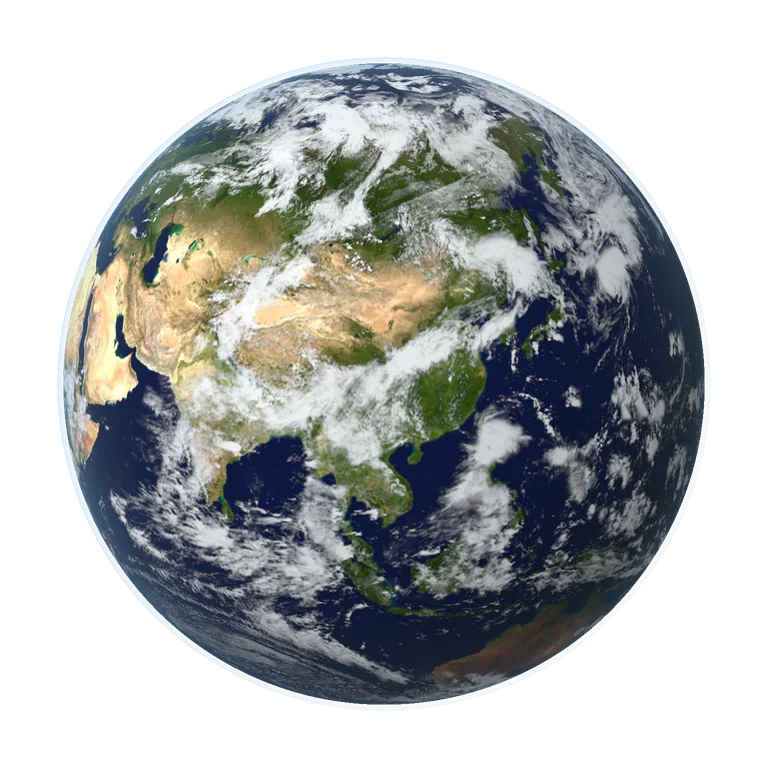
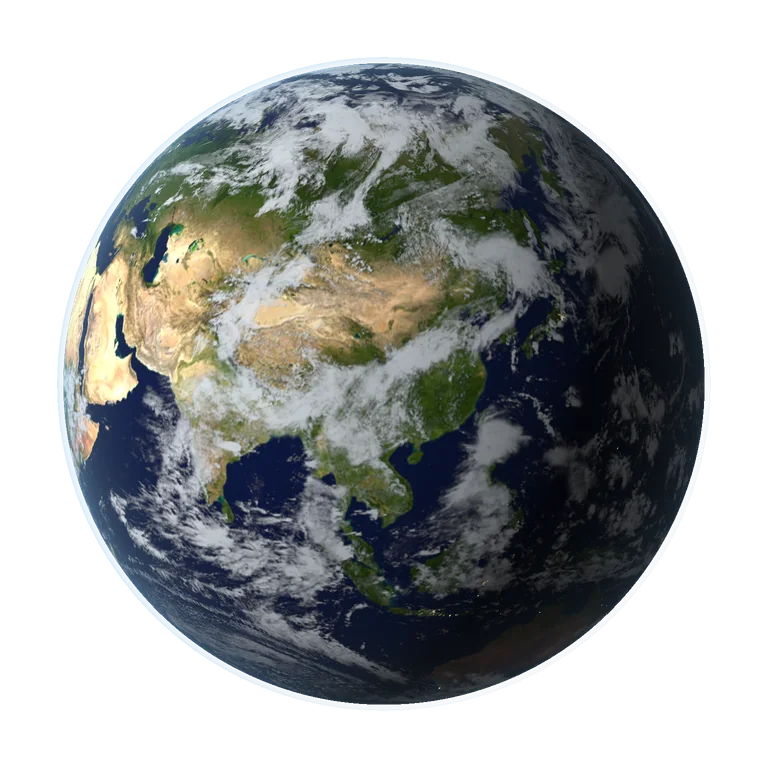
Add cinematic day-night Earth and interactive research-network view

Changed region(s): [[0.25, 0.0625, 0.9375, 0.9375], [0.0938, 0.375, 0.125, 0.4375], [0.0625, 0.4375, 0.0938, 0.4688]]

diff --git a/app/InteractiveGlobe.tsx b/app/InteractiveGlobe.tsx
@@ -5,17 +5,19 @@ import Image from "next/image";
 import { cases, type Language } from "../content/resume";
 import { globeMesh, networkMesh, projectPoint, researchMarkets } from "./globe-geometry";
 import { earthFragment, earthMaterial, earthPosterRevision, earthVertex } from "./earth-material";
+import "./earth-controls.css";
 
 const base = process.env.NEXT_PUBLIC_BASE_PATH ?? "";
 
 export default function InteractiveGlobe({ language, paused, onExplore }: { language: Language; paused: boolean; onExplore: (index: number) => void }) {
   const canvas = useRef<HTMLCanvasElement>(null), labels = useRef<HTMLDivElement>(null), motion = useRef(paused);
   const focus = useRef<((lon: number, lat: number) => void) | null>(null), active = useRef(8);
-  const [renderer, setRenderer] = useState("loading"), [selected, setSelected] = useState("CN");
+  const changeStyle = useRef<((network: boolean) => void) | null>(null), redraw = useRef<(() => void) | null>(null);
+  const [renderer, setRenderer] = useState("loading"), [selected, setSelected] = useState("CN"), [style, setStyle] = useState("earth");
   const loc = (zh: string, en: string) => language === "zh" ? zh : en;
   const selectedPlace = researchMarkets.find(p => p.code === selected);
   const related = cases.slice(0, 2).map((item, index) => ({ item, index: index === 0 ? 0 : 3 })).filter(({ item }) => !selectedPlace || item.markets.includes(selected));
-  useEffect(() => { motion.current = paused; }, [paused]);
+  useEffect(() => { motion.current = paused; redraw.current?.(); }, [paused]);
   useEffect(() => {
     const el = canvas.current;
     if (!el) return;
@@ -38,19 +40,26 @@ export default function InteractiveGlobe({ language, paused, onExplore }: { lang
       const a = gl.getAttribLocation(program, name); gl.enableVertexAttribArray(a); gl.vertexAttribPointer(a, size, gl.FLOAT, false, 32, offset);
     }
     gl.enable(gl.DEPTH_TEST); gl.depthFunc(gl.LEQUAL); gl.enable(gl.CULL_FACE); gl.cullFace(gl.BACK); gl.enable(gl.BLEND); gl.blendFunc(gl.SRC_ALPHA, gl.ONE_MINUS_SRC_ALPHA); gl.clearColor(0, 0, 0, 0);
-    const uo = gl.getUniformLocation(program, "orientation"), ur = gl.getUniformLocation(program, "resolution"), ua = gl.getUniformLocation(program, "activeMarket");
+    const uo = gl.getUniformLocation(program, "orientation"), ur = gl.getUniformLocation(program, "resolution"), ua = gl.getUniformLocation(program, "activeMarket"), un = gl.getUniformLocation(program, "networkView"), uReveal = gl.getUniformLocation(program, "routeReveal");
     const texture = gl.createTexture(); gl.activeTexture(gl.TEXTURE0); gl.bindTexture(gl.TEXTURE_2D, texture); gl.texImage2D(gl.TEXTURE_2D, 0, gl.RGB, 1, 1, 0, gl.RGB, gl.UNSIGNED_BYTE, new Uint8Array([8, 30, 45]));
     gl.texParameteri(gl.TEXTURE_2D, gl.TEXTURE_MIN_FILTER, gl.LINEAR); gl.texParameteri(gl.TEXTURE_2D, gl.TEXTURE_MAG_FILTER, gl.LINEAR); gl.texParameteri(gl.TEXTURE_2D, gl.TEXTURE_WRAP_S, gl.REPEAT); gl.texParameteri(gl.TEXTURE_2D, gl.TEXTURE_WRAP_T, gl.CLAMP_TO_EDGE);
     gl.uniform1i(gl.getUniformLocation(program, "earth"), 0);
     const cloudTexture = gl.createTexture(); gl.activeTexture(gl.TEXTURE1); gl.bindTexture(gl.TEXTURE_2D, cloudTexture); gl.texImage2D(gl.TEXTURE_2D, 0, gl.RGB, 1, 1, 0, gl.RGB, gl.UNSIGNED_BYTE, new Uint8Array([0, 0, 0]));
     gl.texParameteri(gl.TEXTURE_2D, gl.TEXTURE_MIN_FILTER, gl.LINEAR); gl.texParameteri(gl.TEXTURE_2D, gl.TEXTURE_MAG_FILTER, gl.LINEAR); gl.texParameteri(gl.TEXTURE_2D, gl.TEXTURE_WRAP_S, gl.REPEAT); gl.texParameteri(gl.TEXTURE_2D, gl.TEXTURE_WRAP_T, gl.CLAMP_TO_EDGE); gl.uniform1i(gl.getUniformLocation(program, "clouds"), 1);
+    const nightTexture = gl.createTexture(); gl.activeTexture(gl.TEXTURE2); gl.bindTexture(gl.TEXTURE_2D, nightTexture); gl.texImage2D(gl.TEXTURE_2D, 0, gl.RGB, 1, 1, 0, gl.RGB, gl.UNSIGNED_BYTE, new Uint8Array([0, 0, 0]));
+    gl.texParameteri(gl.TEXTURE_2D, gl.TEXTURE_MIN_FILTER, gl.LINEAR); gl.texParameteri(gl.TEXTURE_2D, gl.TEXTURE_MAG_FILTER, gl.LINEAR); gl.texParameteri(gl.TEXTURE_2D, gl.TEXTURE_WRAP_S, gl.REPEAT); gl.texParameteri(gl.TEXTURE_2D, gl.TEXTURE_WRAP_T, gl.CLAMP_TO_EDGE); gl.uniform1i(gl.getUniformLocation(program, "night"), 2);
     let frame = 0, alive = true, visible = true, loaded = false, surfaceReady = false, cloudsReady = false, painted = false, failed = false, pointer = -1, lastX = 0, lastY = 0;
+    let networkBlend = 0, networkTarget = 0, routeReveal = 1, lastFrame = 0;
     const current=[105,30], target=[105,30];
     const nodeLabels = labels.current?.querySelectorAll<HTMLElement>("[data-market]");
-    function draw() {
+    function draw(now: number) {
       frame = 0; if (!alive || !visible || document.hidden || !loaded) return;
+      const delta = Math.min(.06, lastFrame ? Math.max(0, (now - lastFrame) / 1000) : .016); lastFrame = now;
       const speed = motion.current ? 1 : .13; current[0] += (target[0] - current[0]) * speed; current[1] += (target[1] - current[1]) * speed;
+      networkBlend += (networkTarget - networkBlend) * (motion.current ? 1 : 1 - Math.exp(-delta * 8));
+      routeReveal = motion.current ? 1 : Math.min(1, routeReveal + delta * 1.3);
       gl!.viewport(0, 0, el!.width, el!.height); gl!.uniform2f(ur, el!.width, el!.height); gl!.uniform2f(uo, current[0] * Math.PI / 180, current[1] * Math.PI / 180); gl!.uniform1f(ua, active.current); gl!.clear(gl!.COLOR_BUFFER_BIT | gl!.DEPTH_BUFFER_BIT);
+      gl!.uniform1f(un, networkBlend); gl!.uniform1f(uReveal, routeReveal);
       gl!.drawArrays(gl!.TRIANGLES, 0, globe.length / 8);
       gl!.depthMask(false); gl!.drawArrays(gl!.TRIANGLES, globe.length / 8, atmosphere.length / 8); gl!.drawArrays(gl!.LINES, (globe.length + atmosphere.length) / 8, network.lines); gl!.drawArrays(gl!.POINTS, (globe.length + atmosphere.length) / 8 + network.lines, network.points); gl!.depthMask(true);
       if (!painted) { if (gl!.getError() !== gl!.NO_ERROR) { fail(); return; } painted = true; setRenderer("webgl"); }
@@ -59,17 +68,23 @@ export default function InteractiveGlobe({ language, paused, onExplore }: { lang
         label.hidden = !p.visible; label.style.left = `${p.x * 100}%`; label.style.top = `${p.y * 100}%`;
       });
       el!.dataset.longitude = current[0].toFixed(2); el!.dataset.latitude = current[1].toFixed(2);
-      if (Math.abs(current[0] - target[0]) + Math.abs(current[1] - target[1]) > .04) frame = requestAnimationFrame(draw);
+      el!.dataset.networkBlend = networkBlend.toFixed(3); el!.dataset.routeReveal = routeReveal.toFixed(3);
+      if (Math.abs(current[0] - target[0]) + Math.abs(current[1] - target[1]) > .04 || Math.abs(networkBlend - networkTarget) > .001 || routeReveal < 1) frame = requestAnimationFrame(draw);
     }
-    function wake() { if (!frame && alive) frame = requestAnimationFrame(draw); }
-    focus.current = (lon, lat) => { target[0] = current[0] + (((lon - current[0]) % 360 + 540) % 360) - 180; target[1] = lat; wake(); };
+    function wake() { if (!frame && alive) { lastFrame = 0; frame = requestAnimationFrame(draw); } }
+    redraw.current = wake;
+    focus.current = (lon, lat) => { target[0] = current[0] + (((lon - current[0]) % 360 + 540) % 360) - 180; target[1] = lat; routeReveal = 0; wake(); };
+    changeStyle.current = network => { networkTarget = network ? 1 : 0; routeReveal = 0; wake(); };
     function resize() { const r = el!.getBoundingClientRect(), dpr = Math.min(devicePixelRatio, 2, 1200 / Math.max(1, r.width, r.height)); el!.width = Math.round(r.width * dpr); el!.height = Math.round(r.height * dpr); wake(); }
-    function fail() { if (!alive) return; failed = true; loaded = false; cancelAnimationFrame(frame); frame = 0; focus.current = null; active.current = 8; setSelected("CN"); setRenderer("fallback"); }
+    function fail() { if (!alive) return; failed = true; loaded = false; cancelAnimationFrame(frame); frame = 0; focus.current = null; changeStyle.current = null; active.current = 8; setSelected("CN"); setStyle("earth"); setRenderer("fallback"); }
     function prepared() { if (!alive || failed || !surfaceReady || !cloudsReady) return; loaded = true; resize(); }
     const image = new window.Image();
     image.onload = () => { if (!alive || failed) return; gl!.activeTexture(gl!.TEXTURE0); gl!.bindTexture(gl!.TEXTURE_2D, texture); gl!.texImage2D(gl!.TEXTURE_2D, 0, gl!.RGB, gl!.RGB, gl!.UNSIGNED_BYTE, image); gl!.generateMipmap(gl!.TEXTURE_2D); gl!.texParameteri(gl!.TEXTURE_2D, gl!.TEXTURE_MIN_FILTER, gl!.LINEAR_MIPMAP_LINEAR); surfaceReady = true; prepared(); };
     image.onerror = fail; image.src = `${base}/images/earth-surface.jpg`;
     const cloudImage = new window.Image(); cloudImage.onload = () => { if (!alive || failed) return; gl!.activeTexture(gl!.TEXTURE1); gl!.bindTexture(gl!.TEXTURE_2D, cloudTexture); gl!.texImage2D(gl!.TEXTURE_2D, 0, gl!.RGB, gl!.RGB, gl!.UNSIGNED_BYTE, cloudImage); gl!.generateMipmap(gl!.TEXTURE_2D); gl!.texParameteri(gl!.TEXTURE_2D, gl!.TEXTURE_MIN_FILTER, gl!.LINEAR_MIPMAP_LINEAR); cloudsReady = true; prepared(); }; cloudImage.onerror = fail; cloudImage.src = `${base}/images/earth-clouds.jpg`;
+    const nightImage = new window.Image(); el.dataset.nightTexture = "loading";
+    nightImage.onload = () => { if (!alive || failed) return; if (nightImage.width > gl!.getParameter(gl!.MAX_TEXTURE_SIZE)) { el!.dataset.nightTexture = "unavailable"; return; } gl!.activeTexture(gl!.TEXTURE2); gl!.bindTexture(gl!.TEXTURE_2D, nightTexture); gl!.texImage2D(gl!.TEXTURE_2D, 0, gl!.RGB, gl!.RGB, gl!.UNSIGNED_BYTE, nightImage); gl!.generateMipmap(gl!.TEXTURE_2D); gl!.texParameteri(gl!.TEXTURE_2D, gl!.TEXTURE_MIN_FILTER, gl!.LINEAR_MIPMAP_LINEAR); el!.dataset.nightTexture = "ready"; wake(); };
+    nightImage.onerror = () => { if (alive) el!.dataset.nightTexture = "unavailable"; }; nightImage.src = `${base}/images/earth-night-2016.jpg`;
     function down(e: globalThis.PointerEvent) { if (!loaded) return; pointer = e.pointerId; lastX = e.clientX; lastY = e.clientY; el!.setPointerCapture(pointer); el!.dataset.dragging = "true"; }
     function move(e: globalThis.PointerEvent) { if (e.pointerId !== pointer) return; target[0] -= (e.clientX - lastX) * .35; target[1] = Math.max(-65, Math.min(65, target[1] + (e.clientY - lastY) * .24)); lastX = e.clientX; lastY = e.clientY; active.current = -1; setSelected("FREE"); wake(); }
     function up(e: globalThis.PointerEvent) { if (e.pointerId !== pointer) return; if (el!.hasPointerCapture(pointer)) el!.releasePointerCapture(pointer); pointer = -1; el!.dataset.dragging = "false"; }
@@ -83,17 +98,19 @@ export default function InteractiveGlobe({ language, paused, onExplore }: { lang
     function visibility() { if (document.hidden) { cancelAnimationFrame(frame); frame = 0; } else wake(); }
     function lost(e: Event) { e.preventDefault(); fail(); }
     el.addEventListener("pointerdown", down); el.addEventListener("pointermove", move); el.addEventListener("pointerup", up); el.addEventListener("pointercancel", up); el.addEventListener("keydown", key); el.addEventListener("webglcontextlost", lost); document.addEventListener("visibilitychange", visibility);
-    return () => { alive = false; focus.current = null; image.onload = null; image.onerror = null; cloudImage.onload = null; cloudImage.onerror = null; cancelAnimationFrame(frame); resizeObserver.disconnect(); observer.disconnect(); el.removeEventListener("pointerdown", down); el.removeEventListener("pointermove", move); el.removeEventListener("pointerup", up); el.removeEventListener("pointercancel", up); el.removeEventListener("keydown", key); el.removeEventListener("webglcontextlost", lost); document.removeEventListener("visibilitychange", visibility); gl.deleteTexture(texture); gl.deleteTexture(cloudTexture); gl.deleteBuffer(buffer); gl.deleteProgram(program); gl.deleteShader(vs); gl.deleteShader(fs); };
+    return () => { alive = false; focus.current = null; changeStyle.current = null; redraw.current = null; image.onload = null; image.onerror = null; cloudImage.onload = null; cloudImage.onerror = null; nightImage.onload = null; nightImage.onerror = null; cancelAnimationFrame(frame); resizeObserver.disconnect(); observer.disconnect(); el.removeEventListener("pointerdown", down); el.removeEventListener("pointermove", move); el.removeEventListener("pointerup", up); el.removeEventListener("pointercancel", up); el.removeEventListener("keydown", key); el.removeEventListener("webglcontextlost", lost); document.removeEventListener("visibilitychange", visibility); gl.deleteTexture(texture); gl.deleteTexture(cloudTexture); gl.deleteTexture(nightTexture); gl.deleteBuffer(buffer); gl.deleteProgram(program); gl.deleteShader(vs); gl.deleteShader(fs); };
   }, []);
   function choose(code: string, lon: number, lat: number) { active.current = code === "CN" ? 8 : researchMarkets.findIndex(p => p.code === code); setSelected(code); focus.current?.(lon, lat); }
+  function chooseStyle(value: string) { setStyle(value); changeStyle.current?.(value === "network"); }
   function keyboard(e: KeyboardEvent<HTMLDivElement>) { if (e.key === "Escape") { choose("CN", 105, 30); canvas.current?.focus(); } }
-  return <div className="rg-globe" data-renderer={renderer} data-view={selected} onKeyDown={keyboard}>
+  return <div className="rg-globe" data-renderer={renderer} data-view={selected} data-style={style} onKeyDown={keyboard}>
     <div className="rg-globe-stage"><div className="rg-globe-shadow"/><Image className="rg-earth-poster" src={`${base}/images/earth-china-poster.webp?v=${earthPosterRevision}`} width={768} height={768} alt={loc("中国视角的地球", "Earth centered on China")} aria-hidden={renderer === "webgl"} unoptimized priority draggable={false}/>
       <canvas ref={canvas} className="rg-globe-canvas" tabIndex={renderer === "webgl" ? 0 : -1} role="img" aria-hidden={renderer !== "webgl"} aria-label={loc("可旋转地球。拖动改变视角，方向键旋转，Home返回中国。", "Interactive globe. Drag or use arrow keys to rotate. Home centers China.")} onDragStart={e => e.preventDefault()}/>
       <div className="rg-globe-nodes" ref={labels}>{researchMarkets.map(p => <button type="button" data-market={p.code} key={p.code} hidden disabled={renderer !== "webgl"} aria-label={loc(`选择${p.zh}研究市场`, `Select ${p.en} research market`)} aria-pressed={selected === p.code} onClick={() => choose(p.code, p.lon, p.lat)}><span>{p.code}</span></button>)}</div>
       <span className="rg-globe-note" role="status">{renderer === "fallback" ? loc("地球旋转暂不可用", "INTERACTIVE VIEW UNAVAILABLE") : renderer === "loading" ? loc("正在准备地球交互", "PREPARING INTERACTIVE VIEW") : loc("拖动旋转 · 选择市场", "DRAG TO ROTATE · SELECT A MARKET")}</span>
     </div>
-    <div className="rg-globe-views" aria-label={loc("地球主体视角", "Globe focal view")}><button type="button" disabled={renderer !== "webgl"} aria-pressed={selected === "CN"} onClick={() => choose("CN", 105, 30)}>{loc("中国", "China")}<span>105°E</span></button><button type="button" disabled={renderer !== "webgl"} aria-pressed={selected === "US"} onClick={()=>choose("US",-98,37)}>{loc("美国", "United States")}<span>98°W</span></button><button type="button" className="rg-globe-reset" disabled={renderer !== "webgl"} onClick={() => choose("CN", 105, 30)} aria-label={loc("重置地球视角", "Reset globe view")}>↺</button></div>
+    <div className="rg-globe-toolbar"><div className="rg-globe-styles" role="group" aria-label={loc("地球显示方式", "Globe display style")}><button type="button" disabled={renderer !== "webgl"} aria-pressed={style === "earth"} onClick={() => chooseStyle("earth")}>{loc("卫星", "Satellite")}</button><button type="button" disabled={renderer !== "webgl"} aria-pressed={style === "network"} onClick={() => chooseStyle("network")}>{loc("研究网络", "Research network")}</button></div>
+    <div className="rg-globe-views" aria-label={loc("地球主体视角", "Globe focal view")}><button type="button" disabled={renderer !== "webgl"} aria-pressed={selected === "CN"} onClick={() => choose("CN", 105, 30)}>{loc("中国", "China")}<span>105°E</span></button><button type="button" disabled={renderer !== "webgl"} aria-pressed={selected === "US"} onClick={()=>choose("US",-98,37)}>{loc("美国", "United States")}<span>98°W</span></button><button type="button" className="rg-globe-reset" disabled={renderer !== "webgl"} onClick={() => choose("CN", 105, 30)} aria-label={loc("重置地球视角", "Reset globe view")}>↺</button></div></div>
     <div className="pf-market-controls" aria-label={loc("项目涉及的部分市场", "Selected research markets")}>{researchMarkets.map(p => <button type="button" key={p.code} disabled={renderer !== "webgl"} title={language === "zh" ? p.zh : p.en} aria-label={loc(`旋转至${p.zh}`, `Rotate to ${p.en}`)} aria-pressed={selected === p.code} onClick={() => choose(p.code, p.lon, p.lat)}><Image src={`${base}/images/flags/${p.flag}.svg`} alt="" width={28} height={21} unoptimized draggable={false}/><span>{p.code}</span></button>)}</div>
     <div className="rg-globe-caption" aria-live="polite"><p>{selectedPlace ? selectedPlace[language] : loc("北京 · 多国研究", "BEIJING · MULTI-COUNTRY RESEARCH")}</p><div className="rg-globe-links">{related.map(({ item, index }) => <button type="button" key={item.index} onClick={() => onExplore(index)}>{item.title[language]} ↗</button>)}</div></div>
   </div>;

diff --git a/app/earth-material.ts b/app/earth-material.ts
@@ -1,51 +1,64 @@
 // Shared lighting and shell dimensions for the live Earth and its offline poster.
-export const earthPosterRevision = "570d31df4af6";
+export const earthPosterRevision = "4ee776429e8f";
 
 export const earthMaterial = {
-  light: [-.72, .68, 1.35],
+  light: [-1.25, .48, .78],
   cloudRadius: 1.003,
   atmosphereRadius: 1.018,
-  ambient: .09,
-  exposure: 1.12,
+  ambient: .022,
+  exposure: 1.24,
 } as const;
 
 export const earthVertex = `#version 300 es
 precision highp float;
 in vec3 position;in vec3 normal;in float material;in float market;
 uniform vec2 resolution;uniform vec2 orientation;uniform float activeMarket;
-out vec3 point;out vec3 surface;flat out float kind;flat out float picked;
+out vec3 point;out vec3 surface;out float pathPosition;flat out float kind;flat out float picked;
 vec3 view(vec3 w){float a=orientation.y,b=orientation.x;vec3 p=vec3(cos(b)*w.x-sin(b)*w.z,w.y,sin(b)*w.x+cos(b)*w.z);return vec3(p.x,cos(a)*p.y-sin(a)*p.z,sin(a)*p.y+cos(a)*p.z);}
-void main(){vec3 p=material>.5&&material<2.5?view(position):position;float depth=4.6-p.z;float scale=4.2/1.12;gl_Position=vec4(p.x*scale/(resolution.x/resolution.y),p.y*scale,1.020202*depth-.2020202,depth);point=p;surface=normal;kind=material;picked=abs(market-activeMarket)<.1?1.:0.;gl_PointSize=material>1.5&&material<2.5?(picked>.5?10.:5.):1.;}`;
+void main(){vec3 p=material>.5&&material<2.5?view(position):position;float depth=4.6-p.z;float scale=4.2/1.12;gl_Position=vec4(p.x*scale/(resolution.x/resolution.y),p.y*scale,1.020202*depth-.2020202,depth);point=p;surface=normal;pathPosition=normal.x;kind=material;picked=abs(market-activeMarket)<.1?1.:0.;gl_PointSize=material>1.5&&material<2.5?(picked>.5?19.:12.):1.;}`;
 
 export const earthFragment = `#version 300 es
 precision highp float;
-in vec3 point;in vec3 surface;flat in float kind;flat in float picked;out vec4 color;
-uniform sampler2D earth;uniform sampler2D clouds;uniform vec2 orientation;
+in vec3 point;in vec3 surface;in float pathPosition;flat in float kind;flat in float picked;out vec4 color;
+uniform sampler2D earth;uniform sampler2D clouds;uniform sampler2D night;uniform vec2 orientation;uniform float networkView;uniform float routeReveal;
 const float PI=3.14159265359;
 const float CLOUD_RADIUS=${earthMaterial.cloudRadius};
 vec3 world(vec3 n){float a=orientation.y,b=orientation.x;vec3 p=vec3(n.x,cos(a)*n.y+sin(a)*n.z,-sin(a)*n.y+cos(a)*n.z);return vec3(cos(b)*p.x+sin(b)*p.z,p.y,-sin(b)*p.x+cos(b)*p.z);}
 vec2 uvAt(vec3 n){vec3 w=world(normalize(n));return vec2(atan(w.x,w.z)/(2.*PI)+.5,.5-asin(clamp(w.y,-1.,1.))/PI);}
 float cloudAt(vec3 n){return smoothstep(.055,.88,texture(clouds,uvAt(n)).r);}
+vec3 cityLights(vec3 sampleColor){float mask=smoothstep(.025,.13,sampleColor.r-.8*sampleColor.b)*smoothstep(.08,.35,sampleColor.r);return sampleColor*mask;}
 vec3 shellPoint(vec3 p,vec3 direction){float b=dot(p,direction);float d=-b+sqrt(max(0.,b*b+CLOUD_RADIUS*CLOUD_RADIUS-dot(p,p)));return p+direction*d;}
 void main(){
+ if(kind>.5&&kind<2.5){
+  if(kind>1.5){float d=length(gl_PointCoord-.5);if(d>.5)discard;float core=1.-smoothstep(.05,.14,d);float halo=pow(1.-smoothstep(.02,.5,d),2.);vec3 ink=mix(vec3(.40,.81,.92),vec3(1.,.83,.51),picked);color=vec4(mix(ink,vec3(1.),core*.8),max(core,halo*.65));}
+  else{if(picked<.5&&networkView<.01)discard;float reveal=1.-smoothstep(routeReveal,routeReveal+.045,pathPosition);float alpha=mix(.18,.8,picked)*mix(1.,reveal,picked);color=vec4(mix(vec3(.35,.68,.78),vec3(1.,.84,.55),picked),alpha*max(picked,networkView));}return;
+ }
  vec3 n=normalize(surface),v=normalize(vec3(0.,0.,4.6)-point),light=normalize(vec3(${earthMaterial.light.join(",")}));
  if(kind>2.5){float facing=max(0.,dot(n,v)),sun=smoothstep(-.3,.7,dot(n,light));float edge=pow(1.-facing,5.);color=vec4(mix(vec3(.28,.48,.65),vec3(.46,.73,.91),sun),edge*(.09+.25*sun));return;}
- if(kind>.5){if(kind>1.5){float d=length(gl_PointCoord-.5);if(d>.5)discard;float alpha=1.-smoothstep(.21,.5,d);color=vec4(mix(vec3(.63,.81,.87),vec3(1.,.89,.64),picked),alpha);}else{if(picked<.5)discard;color=vec4(.88,.82,.66,.56);}return;}
  vec3 natural=texture(earth,uvAt(n)).rgb;
  float water=1.-smoothstep(-.03,.075,max(natural.r,natural.g*.9)-natural.b);
  natural=mix(natural,vec3(.025,.105,.17)+natural*.55,water*.62);
- float sun=max(0.,dot(n,light));
+ float incidence=dot(n,light),sun=max(0.,incidence);
  float shadow=cloudAt(shellPoint(n,light));
  vec3 ground=pow(natural,vec3(2.2))*(${earthMaterial.ambient}+1.03*sun*(1.-shadow*.42));
  vec3 halfVector=normalize(light+v);float fresnel=.025+.975*pow(1.-max(0.,dot(v,halfVector)),5.);
  float sheen=pow(max(0.,dot(n,halfVector)),85.)*sun*water*(1.-shadow*.75);
  ground+=vec3(.79,.87,.95)*sheen*fresnel*1.8;
  vec3 cloudPoint=shellPoint(n,v),cloudNormal=normalize(cloudPoint);float cloud=cloudAt(cloudPoint);
- float cloudSun=max(0.,dot(cloudNormal,light));vec3 cloudColor=vec3(.92,.95,.98)*(.18+cloudSun*.88);
- vec3 radiance=mix(ground,cloudColor,cloud*.88);
- float air=pow(1.-max(0.,dot(n,v)),3.5)*(.10+.33*sun);
+ float cloudSun=max(0.,dot(cloudNormal,light));vec3 cloudColor=pow(vec3(.92,.95,.98),vec3(2.2))*(.035+cloudSun*.92);
+ vec3 radiance=mix(ground,cloudColor,cloud*.82);
+ vec3 lights=cityLights(texture(night,uvAt(n)).rgb);float nightMask=1.-smoothstep(-.13,.20,incidence);
+ radiance+=pow(lights,vec3(2.2))*nightMask*(1.-cloud*.72)*1.9;
+ float air=pow(1.-max(0.,dot(n,v)),3.5)*(.035+.37*sun);
  radiance=mix(radiance,vec3(.22,.42,.63),air);
- color=vec4(pow(max(radiance*${earthMaterial.exposure},vec3(0.)),vec3(1./2.2)),1.);
+ vec3 satellite=pow(max(radiance*${earthMaterial.exposure},vec3(0.)),vec3(1./2.2));
+ vec3 w=world(n);vec2 geo=vec2(atan(w.x,w.z),asin(clamp(w.y,-1.,1.)));
+ vec2 gridDistance=abs(sin(geo*12.));vec2 gridWidth=max(fwidth(geo*12.),vec2(.001));
+ float grid=1.-min(smoothstep(vec2(0.),gridWidth*1.2,gridDistance).x,smoothstep(vec2(0.),gridWidth*1.2,gridDistance).y);
+ float facing=max(0.,dot(n,v));vec3 network=mix(vec3(.025,.065,.105),vec3(.12,.23,.31),1.-water);
+ network*=.56+.44*facing;network+=vec3(.24,.44,.52)*grid*.12;network+=pow(lights,vec3(1.35))*.27;
+ network+=vec3(.08,.25,.35)*pow(1.-facing,3.);
+ color=vec4(mix(satellite,network,networkView),1.);
 }`;
 
 type Vector = readonly number[];
@@ -62,13 +75,18 @@ export function intersectShell(p: Vector, direction: Vector, radius: number) {
   return p.map((value, index) => value + direction[index] * distance);
 }
 
-export function shadeEarth(p: Vector, surfaceAt: Sampler, cloudsAt: Sampler) {
+export function nightEmission(sampleColor: Vector) {
+  const mask = smoothstep(.025, .13, sampleColor[0] - .8 * sampleColor[2]) * smoothstep(.08, .35, sampleColor[0]);
+  return sampleColor.map(value => value * mask);
+}
+
+export function shadeEarth(p: Vector, surfaceAt: Sampler, cloudsAt: Sampler, nightAt: Sampler = () => [0, 0, 0]) {
   const n = normalize(p), v = normalize([-p[0], -p[1], 4.6 - p[2]]);
   let natural = surfaceAt(n);
   const water = 1 - smoothstep(-.03, .075, Math.max(natural[0], natural[1] * .9) - natural[2]);
   natural = mix(natural, natural.map((value, index) => [.025, .105, .17][index] + value * .55), water * .62);
   const cloudAt = (normal: Vector) => smoothstep(.055, .88, cloudsAt(normal)[0]);
-  const sun = Math.max(0, dot(n, light));
+  const incidence = dot(n, light), sun = Math.max(0, incidence);
   const shadow = cloudAt(intersectShell(n, light, earthMaterial.cloudRadius));
   const ground = natural.map(value => Math.pow(value, 2.2) * (earthMaterial.ambient + 1.03 * sun * (1 - shadow * .42)));
   const halfVector = normalize(light.map((value, index) => value + v[index]));
@@ -77,9 +95,11 @@ export function shadeEarth(p: Vector, surfaceAt: Sampler, cloudsAt: Sampler) {
   ground.forEach((_, index) => { ground[index] += [.79, .87, .95][index] * sheen * fresnel * 1.8; });
   const cloudPoint = intersectShell(n, v, earthMaterial.cloudRadius), cloud = cloudAt(cloudPoint);
   const cloudSun = Math.max(0, dot(normalize(cloudPoint), light));
-  const cloudColor = [.92, .95, .98].map(value => value * (.18 + cloudSun * .88));
-  const radiance = mix(ground, cloudColor, cloud * .88);
-  const air = Math.pow(1 - Math.max(0, dot(n, v)), 3.5) * (.10 + .33 * sun);
+  const cloudColor = [.92, .95, .98].map(value => Math.pow(value, 2.2) * (.035 + cloudSun * .92));
+  const radiance = mix(ground, cloudColor, cloud * .82);
+  const lights = nightEmission(nightAt(n)), nightMask = 1 - smoothstep(-.13, .20, incidence);
+  radiance.forEach((_, index) => { radiance[index] += Math.pow(lights[index], 2.2) * nightMask * (1 - cloud * .72) * 1.9; });
+  const air = Math.pow(1 - Math.max(0, dot(n, v)), 3.5) * (.035 + .37 * sun);
   return mix(radiance, [.22, .42, .63], air).map(value => Math.pow(Math.max(0, value * earthMaterial.exposure), 1 / 2.2));
 }
 

diff --git a/app/earth-controls.css b/app/earth-controls.css
@@ -1,0 +1,12 @@
+.rg-globe-toolbar{display:flex;justify-content:center;align-items:center;gap:18px;margin-top:15px}
+.rg-globe-toolbar .rg-globe-views{margin-top:0;gap:0}
+.rg-globe-styles{display:flex;gap:0;border:1px solid #b9c6cb;border-radius:3px;padding:3px;background:#edf0ec}
+.rg-globe-styles button{min-width:44px;min-height:44px;padding:6px 12px;border:0;border-radius:1px;background:transparent;color:#718390;font-size:11px;white-space:nowrap;transition:background .3s,color .3s,box-shadow .3s}
+.rg-globe-styles button[aria-pressed=true]{background:#263e54;color:#f5f1e7;box-shadow:0 2px 5px #19344c1c}
+.rg-globe-styles button:disabled{opacity:.55}
+.rg-globe-styles button:focus-visible{outline:2px solid #647e94;outline-offset:3px}
+.rg-globe-stage{transition:filter .4s}
+.rg-globe[data-style=network] .rg-globe-shadow{background:#233b5b2c}
+@media(max-width:1100px) and (min-width:700px){.rg-globe-toolbar{flex-wrap:wrap;gap:5px 12px}}
+@media(max-width:699px){.rg-globe-toolbar{flex-wrap:wrap;gap:4px 8px;margin-top:10px}.rg-globe-toolbar .rg-globe-views{gap:0}.rg-globe-toolbar .rg-globe-views button{padding-inline:8px;gap:6px}.rg-globe-styles button{font-size:10px;padding-inline:9px}.rg-globe-views button>span{display:none}}
+@media(prefers-reduced-motion:reduce){.rg-globe-styles button,.rg-globe-stage{transition:none}}

diff --git a/app/globe-geometry.ts b/app/globe-geometry.ts
@@ -47,7 +47,7 @@ export function networkMesh() {
   researchMarkets.forEach((place, market) => {
     const end = worldPoint(place.lon, place.lat), angle = Math.acos(Math.min(1, Math.max(-1, hub.reduce((sum, v, i) => sum + v * end[i], 0))));
     function arc(t: number) { const r = 1.015 + .025 * Math.sin(Math.PI * t), divisor = Math.sin(angle); return hub.map((v, i) => r * (v * Math.sin((1 - t) * angle) + end[i] * Math.sin(t * angle)) / divisor); }
-    for (let i = 0; i < segments; i++) for (const t of [i / segments, (i + 1) / segments]) data.push(...arc(t), 0, 0, 0, 1, market);
+    for (let i = 0; i < segments; i++) for (const t of [i / segments, (i + 1) / segments]) data.push(...arc(t), t, 0, 0, 1, market);
   });
   const lines = data.length / 8;
   [...researchMarkets.map(p => worldPoint(p.lon, p.lat)), hub].forEach((p, market) => data.push(...p.map(v => v * 1.015), 0, 0, 0, 2, market));

diff --git a/README.md b/README.md
@@ -61,7 +61,8 @@ When updating the résumé download, copy the validated PDF, update its filename
 
 - Earth surface: [NASA Blue Marble surface texture](https://eoimages.gsfc.nasa.gov/images/imagerecords/57000/57752/land_shallow_topo_2048.jpg).
 - Clouds: [NASA Blue Marble cloud composite](https://eoimages.gsfc.nasa.gov/images/imagerecords/57000/57747/cloud_combined_2048.jpg), used as a visual texture, not current weather.
-- Earth uses separate cloud sampling at altitude, cloud shadows, ocean sheen and a thin atmospheric shell. Market paths appear only for the selected overseas market, rather than as a decorative ring.
+- Night lights: [NASA Black Marble 2016, 3600×1800](https://assets.science.nasa.gov/content/dam/science/esd/eo/images/imagerecords/144000/144898/BlackMarble_2016_01deg.jpg), from the [NASA Earth at Night maps](https://science.nasa.gov/earth/earth-observatory/earth-at-night/maps/). This historical composite is a visual texture, not a current electricity, population or economic indicator.
+- Earth uses linear-light surface/cloud shading, cloud shadows, ocean sheen, night-side city lights and a thin atmospheric shell. Satellite mode shows only the selected overseas market path. Research-network mode reveals the same verified markets on a geographic grid; the paths illustrate geographic connections, not measured data or client relationships. Neither mode uses decorative rings.
 - The first-paint China view is rendered from the same textures, camera and shared material in `app/earth-material.ts` as the interactive Earth. Regenerate it offline with `node scripts/render_globe_poster.mjs`; the script uses the existing Next.js Sharp dependency and requires no downloads.
 - Lenovo: [official horizontal logo asset](https://media.lenovobrandworld.fiestic.com/2021/01/08011220/03_Logo_01Overview_6B_v-07.png).
 - University of Toronto: [official signature resource](https://www.utm.utoronto.ca/communications/brand-resources/utm-signature-usage-guidelines).
